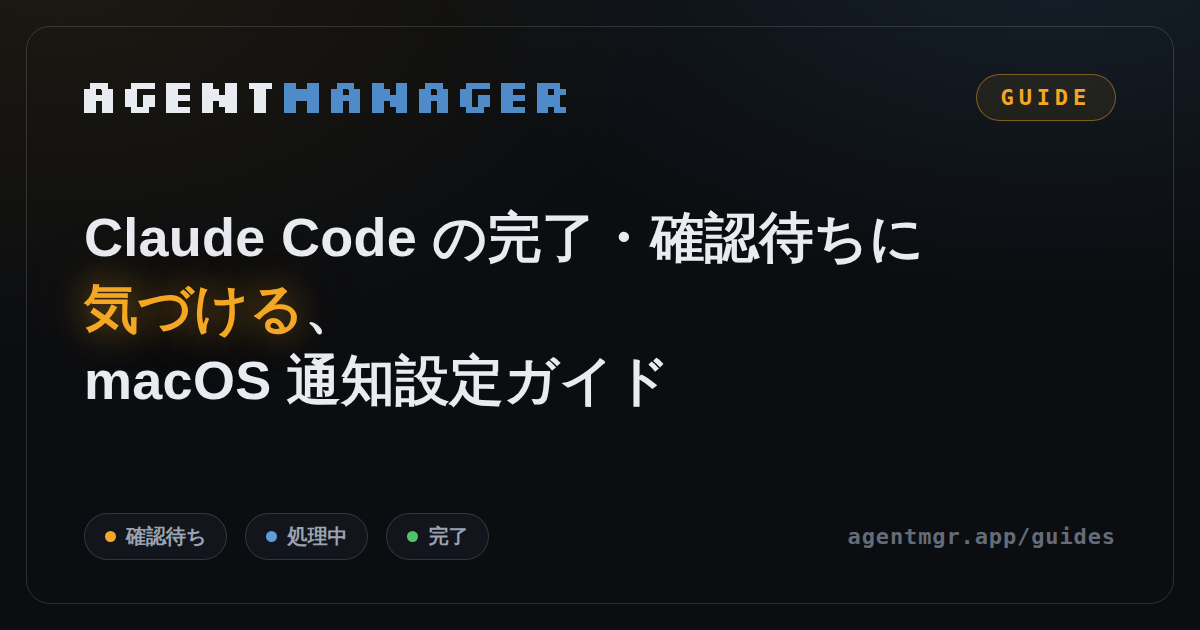
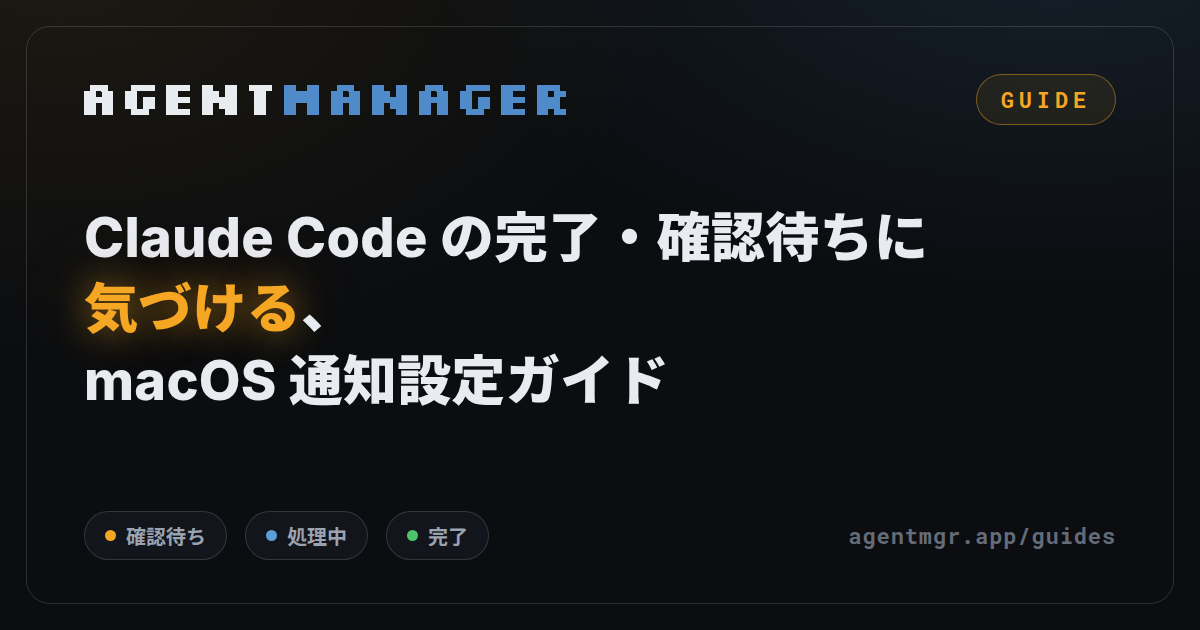
fix: OGP画像のフォントを Web フォント (Inter / Noto Sans JP / Roboto Mono) に統一
生成環境のフォールバックフォントで描画されており、既存の og-image-ja.png
（Noto Sans JP 900）とも LP とも字形が揃っていなかった。

- テンプレートに Google Fonts (Inter 700/800・Noto Sans JP 700/900・
  Roboto Mono 700) の読み込みを追加。見出しは EN=Inter 800 / JA=Noto Sans JP 900
- 生成スクリプトに networkidle + document.fonts.ready のロード待ちを追加
- 6 枚を再生成

Claude-Session: https://claude.ai/code/session_013CzTDj4FuM4GGuY2hrSxaA

diff --git a/tools/og-guide-template.html b/tools/og-guide-template.html
@@ -2,6 +2,8 @@
 <html lang="{{LANG}}">
 <head>
 <meta charset="UTF-8">
+<link rel="preconnect" href="https://fonts.gstatic.com" crossorigin>
+<link href="https://fonts.googleapis.com/css2?family=Inter:wght@700;800&family=Noto+Sans+JP:wght@700;900&family=Roboto+Mono:wght@700&display=swap" rel="stylesheet">
 <style>
   /*
    * ガイドページ用 OGP 画像テンプレート (1200x630)
@@ -15,7 +17,7 @@
       radial-gradient(900px 500px at 88% -10%, rgba(94,158,214,.13), transparent 70%),
       radial-gradient(900px 560px at 5% -6%, rgba(245,166,35,.08), transparent 70%),
       #0B0D10;
-    font-family: 'Noto Sans CJK JP', 'Noto Sans JP', 'Hiragino Sans', sans-serif;
+    font-family: 'Inter', 'Noto Sans JP', 'Hiragino Sans', sans-serif;
     color: #E8EBF0;
   }
   .frame {
@@ -28,7 +30,7 @@
   .top { display: flex; align-items: center; justify-content: space-between; }
   .logo { height: 30px; width: auto; display: block; }
   .kind {
-    font-family: ui-monospace, 'SF Mono', Menlo, monospace;
+    font-family: 'Roboto Mono', ui-monospace, 'SF Mono', Menlo, monospace;
     font-weight: 700; font-size: 22px; letter-spacing: .22em;
     color: #F5A623;
     padding: 10px 24px; border-radius: 999px;
@@ -38,8 +40,9 @@
 
   h1 {
     position: absolute; left: 0; right: 0; top: 128px;
-    font-weight: 900; font-size: {{TITLE_SIZE}}px; line-height: 1.32; letter-spacing: .005em;
+    font-weight: 800; font-size: {{TITLE_SIZE}}px; line-height: 1.32; letter-spacing: .005em;
   }
+  :lang(ja) h1 { font-weight: 900; }
   h1 .accent {
     color: #F5A623;
     text-shadow: 0 0 34px rgba(245,166,35,.5), 0 0 80px rgba(245,166,35,.25);
@@ -58,7 +61,7 @@
   }
   .dot { width: 11px; height: 11px; border-radius: 50%; }
   .url {
-    font-family: ui-monospace, 'SF Mono', Menlo, monospace;
+    font-family: 'Roboto Mono', ui-monospace, 'SF Mono', Menlo, monospace;
     font-weight: 700; font-size: 22px; letter-spacing: .04em;
     color: #646C7A;
   }
